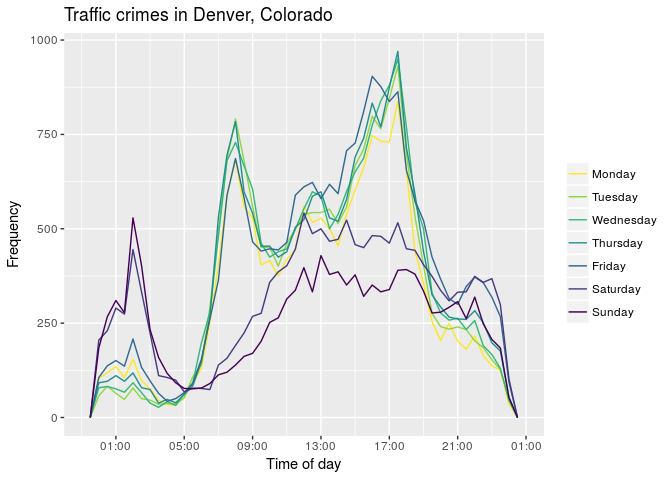
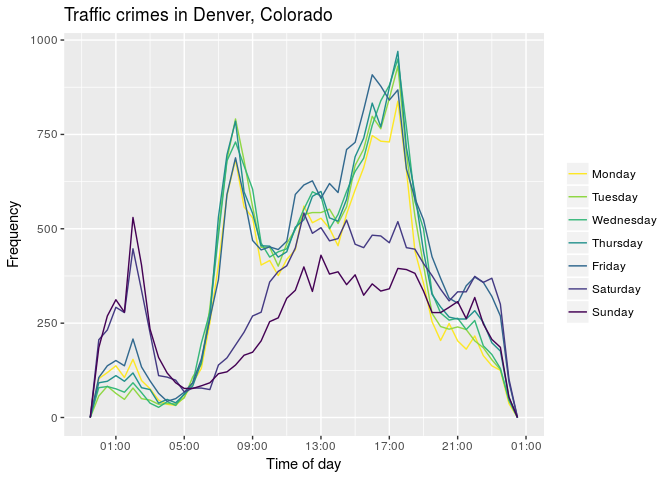
removing link from leaflet post & updating data for denver traffic

diff --git a/_posts/R/2016-12-06-visualize-denver-colorado-traffic-crime.md b/_posts/R/2016-12-06-visualize-denver-colorado-traffic-crime.md
@@ -40,26 +40,26 @@ names(d) <- tolower(names(d))
 str(d)
 ```
 
-    ## 'data.frame':    449724 obs. of  19 variables:
-    ##  $ incident_id           : num  2.01e+08 2.01e+09 2.01e+09 2.01e+09 2.01e+09 ...
-    ##  $ offense_id            : num  2.01e+14 2.01e+15 2.01e+15 2.01e+15 2.01e+15 ...
-    ##  $ offense_code          : int  1313 5441 5312 5311 5309 1315 2999 5401 2305 2999 ...
-    ##  $ offense_code_extension: int  2 0 0 0 1 1 0 0 0 0 ...
-    ##  $ offense_type_id       : chr  "assault-dv" "traffic-accident" "disturbing-the-peace" "public-fighting" ...
-    ##  $ offense_category_id   : chr  "other-crimes-against-persons" "traffic-accident" "public-disorder" "all-other-crimes" ...
-    ##  $ first_occurrence_date : chr  "2014-01-16 02:15:00" "2014-05-22 10:57:00" "2014-05-21 13:32:59" "2014-05-21 13:32:59" ...
-    ##  $ last_occurrence_date  : chr  "2014-01-16 02:25:00" "" "" "" ...
-    ##  $ reported_date         : chr  "2014-01-16 02:25:00" "2014-05-22 11:16:59" "2014-05-23 17:36:59" "2014-05-23 17:36:59" ...
-    ##  $ incident_address      : chr  "828 S ONEIDA ST" "" "" "" ...
-    ##  $ geo_x                 : num  3167314 3152232 3188858 3188858 3167289 ...
-    ##  $ geo_y                 : num  1680984 1671713 1712058 1712058 1689360 ...
+    ## 'data.frame':    450438 obs. of  19 variables:
+    ##  $ incident_id           : num  2.01e+08 2.01e+08 2.01e+07 2.01e+08 2.01e+10 ...
+    ##  $ offense_id            : num  2.01e+14 2.01e+14 2.01e+13 2.01e+14 2.01e+16 ...
+    ##  $ offense_code          : int  2303 2305 5441 2399 2308 2305 2999 2305 2999 5401 ...
+    ##  $ offense_code_extension: int  0 0 0 0 0 0 2 0 0 0 ...
+    ##  $ offense_type_id       : chr  "theft-shoplift" "theft-items-from-vehicle" "traffic-accident" "theft-other" ...
+    ##  $ offense_category_id   : chr  "larceny" "theft-from-motor-vehicle" "traffic-accident" "larceny" ...
+    ##  $ first_occurrence_date : chr  "2013-02-08 17:49:59" "2013-02-08 10:15:00" "2013-01-04 22:24:00" "2013-02-08 17:10:00" ...
+    ##  $ last_occurrence_date  : chr  "2013-02-08 18:02:59" "2013-02-08 16:15:00" "" "2013-02-08 17:15:00" ...
+    ##  $ reported_date         : chr  "2013-02-08 18:02:59" "2013-02-08 18:04:59" "2013-01-04 23:19:00" "2013-02-08 20:04:59" ...
+    ##  $ incident_address      : chr  "1155 E 9TH AVE" "36 N STEELE ST" "N BROADWAY ST / W 1ST AVE" "741 E COLFAX AVE" ...
+    ##  $ geo_x                 : num  3147996 3154875 3144170 3146878 3160074 ...
+    ##  $ geo_y                 : num  1691775 1686477 1686948 1694896 1672420 ...
     ##  $ geo_lon               : num  -105 -105 -105 -105 -105 ...
-    ##  $ geo_lat               : num  39.7 39.7 39.8 39.8 39.7 ...
-    ##  $ district_id           : int  3 3 5 5 3 6 4 2 4 2 ...
-    ##  $ precinct_id           : int  321 313 512 512 321 621 421 221 412 212 ...
-    ##  $ neighborhood_id       : chr  "washington-virginia-vale" "university-park" "montbello" "montbello" ...
-    ##  $ is_crime              : int  1 0 1 1 1 1 1 0 1 1 ...
-    ##  $ is_traffic            : int  0 1 0 0 0 0 0 1 0 0 ...
+    ##  $ geo_lat               : num  39.7 39.7 39.7 39.7 39.7 ...
+    ##  $ district_id           : int  6 3 3 6 3 1 2 5 2 3 ...
+    ##  $ precinct_id           : int  623 312 311 621 322 113 221 513 211 311 ...
+    ##  $ neighborhood_id       : chr  "capitol-hill" "cherry-creek" "baker" "north-capitol-hill" ...
+    ##  $ is_crime              : int  1 1 0 1 1 1 1 1 1 0 ...
+    ##  $ is_traffic            : int  0 0 1 0 0 0 0 0 0 1 ...
 
 The code below uses the `dplyr` package to subset the data to only include traffic accident crimes (`filter(...)`), and parses the date/time column so that we can extract quantities like hour-minutes (to evaluate patterns over the course of one day), the day of week (e.g., 1 = Sunday, 2 = Monday, ...), and year day (what day of the year is it?), creating new columns for these variables with the `mutate()` function.
 

diff --git a/_posts/python/2016-08-01-introduction-to-leaflet-animated-maps.md b/_posts/python/2016-08-01-introduction-to-leaflet-animated-maps.md
@@ -97,7 +97,6 @@ my_map
 Leaflet (or folium for our purposes) has some other pretty great features that you may find useful. There are some great tutorials that can be found online with examples that should be easily adaptable to your code. Additionally, folium can work with pandas dataframes in order to overlay data onto the interactive map. I've listed a few below and will go over some other features for the remainder of this notebook.
 
 - [Folium Documentation](https://media.readthedocs.org/pdf/folium/latest/folium.pdf)
-- [Creating Interative Crime Maps w/ Folium](https://blog.dominodatalab.com/creating-interactive-crime-maps-with-folium/)
 - [Python and Webmaps: Folium](http://www.digital-geography.com/python-and-webmaps-folium/#.V2rhFvkrKUk)
 
 
